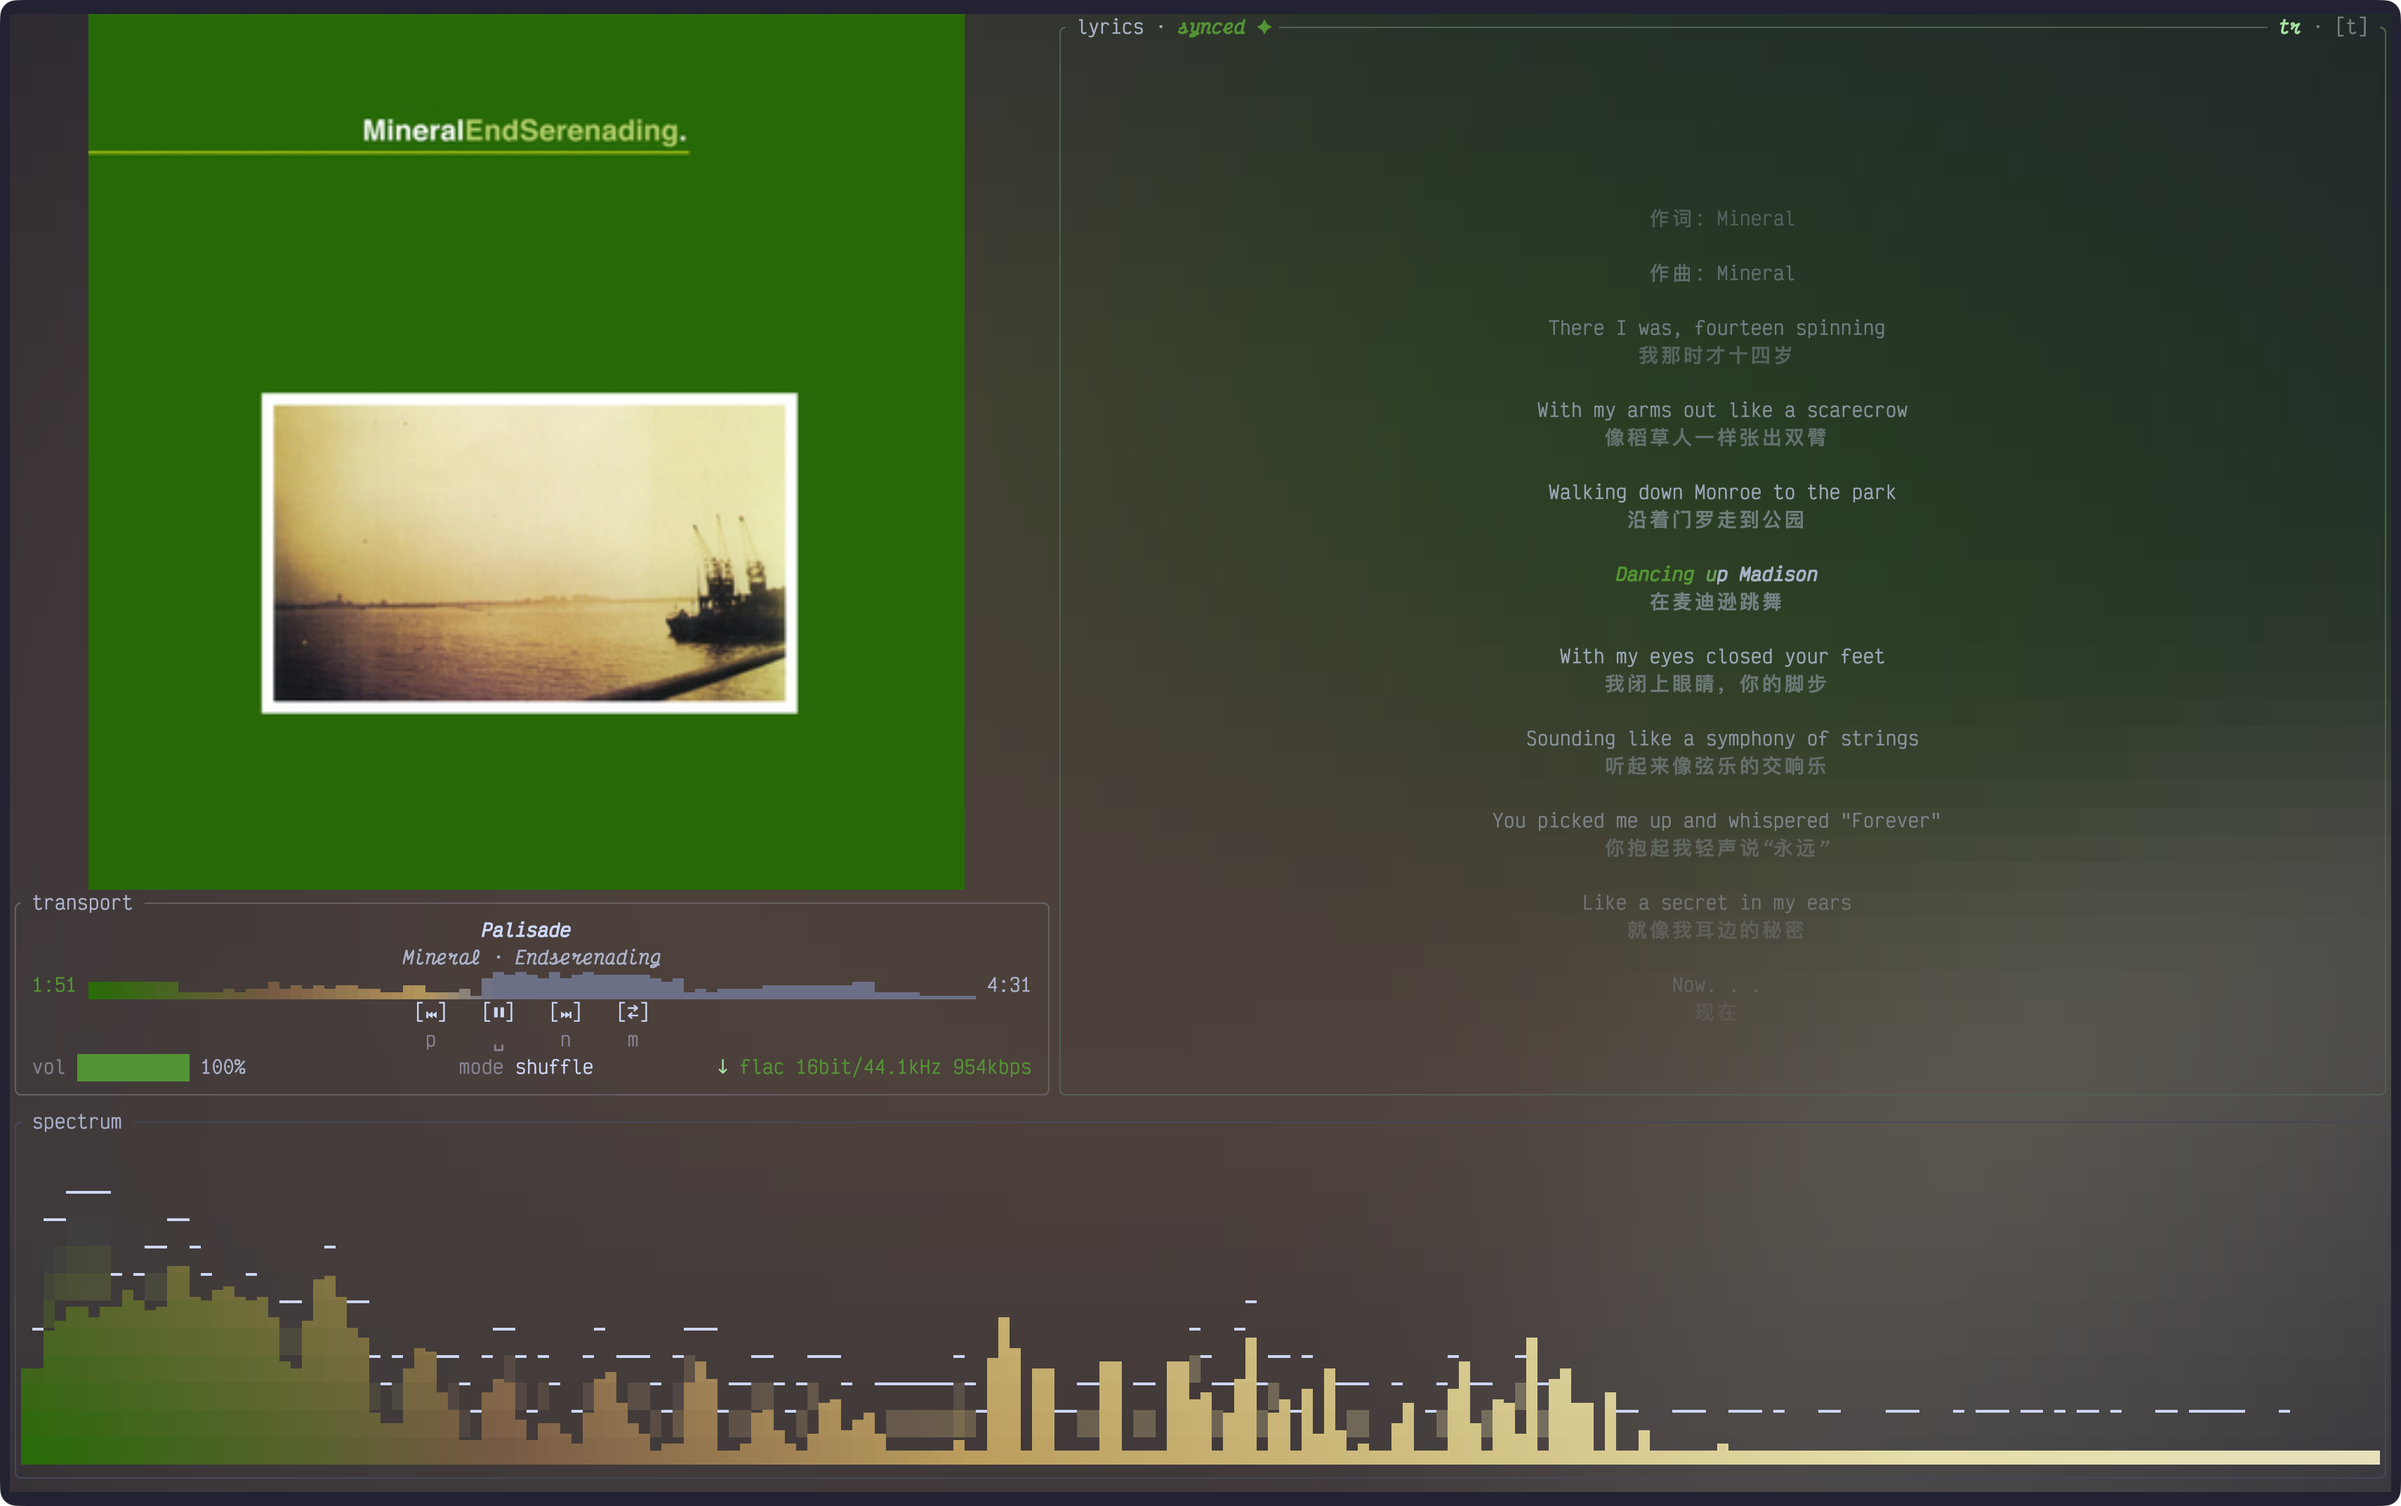
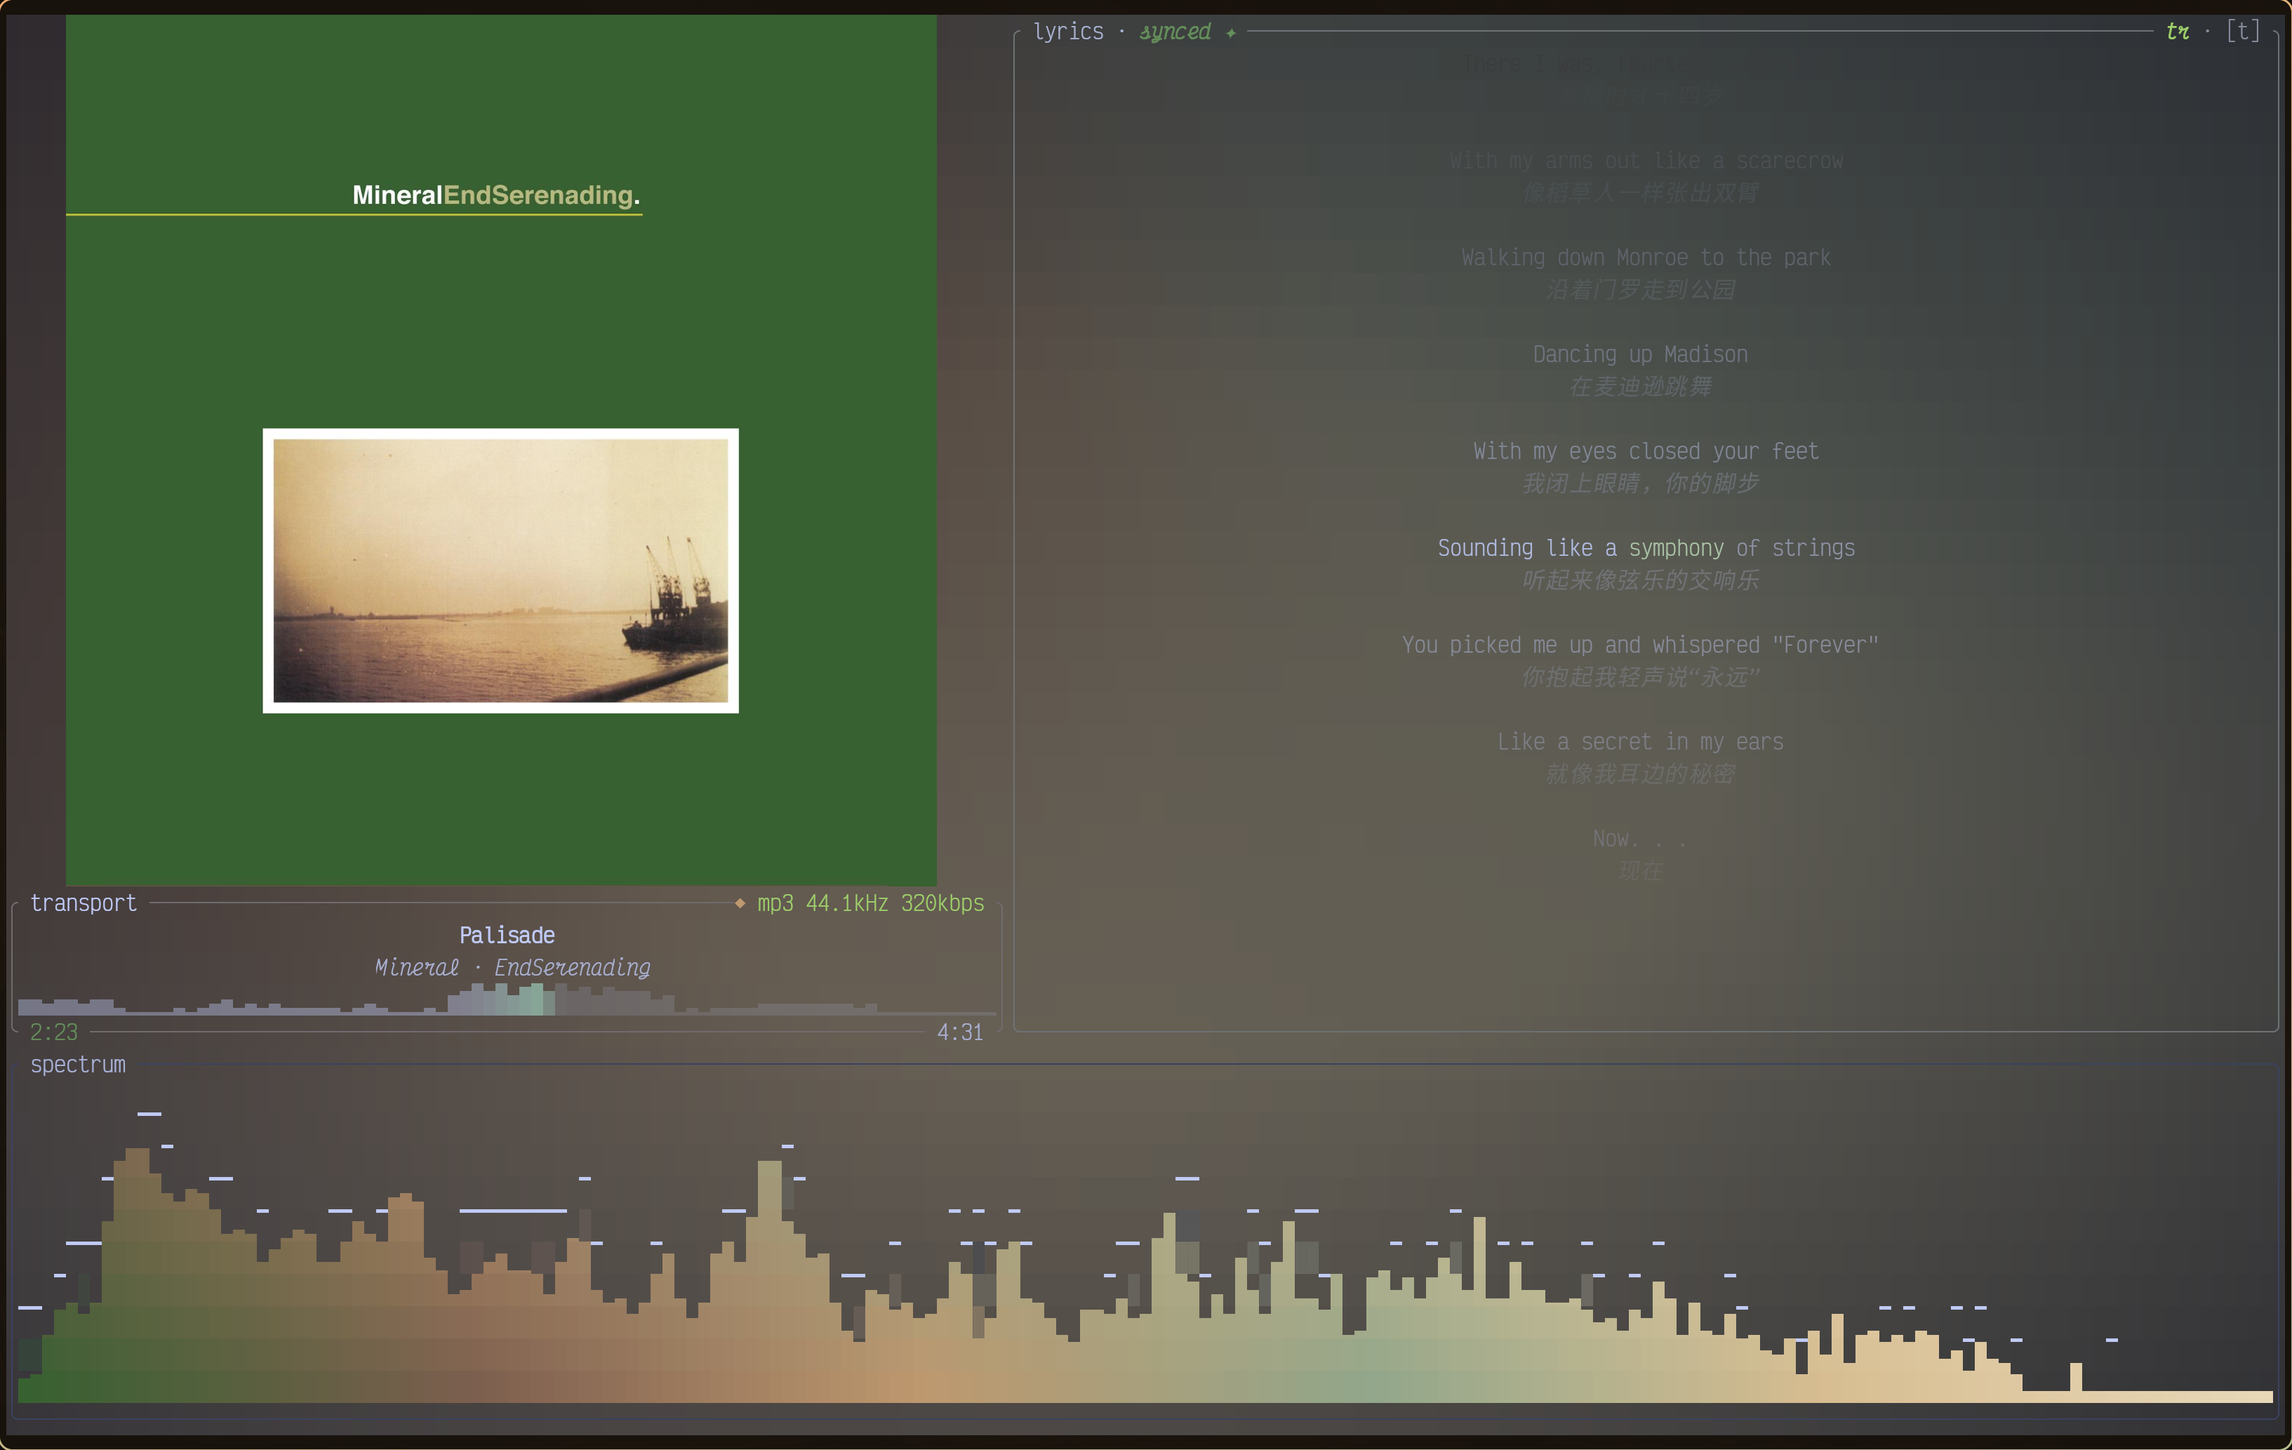
update

diff --git a/README.md b/README.md
@@ -16,6 +16,8 @@
 
 <img src="assets/screenshot-search.png" alt="Mineral 搜索:来源过滤 / 艺人 / 单曲 / 专辑" width="800"/>
 
+<img src="assets/screenshot-fuzzy-search.png" alt="Mineral 模糊搜索:拼音命中 / 歌单内命中高亮" width="800"/>
+
 <img src="assets/screenshot-immersive.png" alt="Mineral 全屏沉浸态:封面 / 逐字歌词 / 频谱" width="800"/>
 
 </div>
